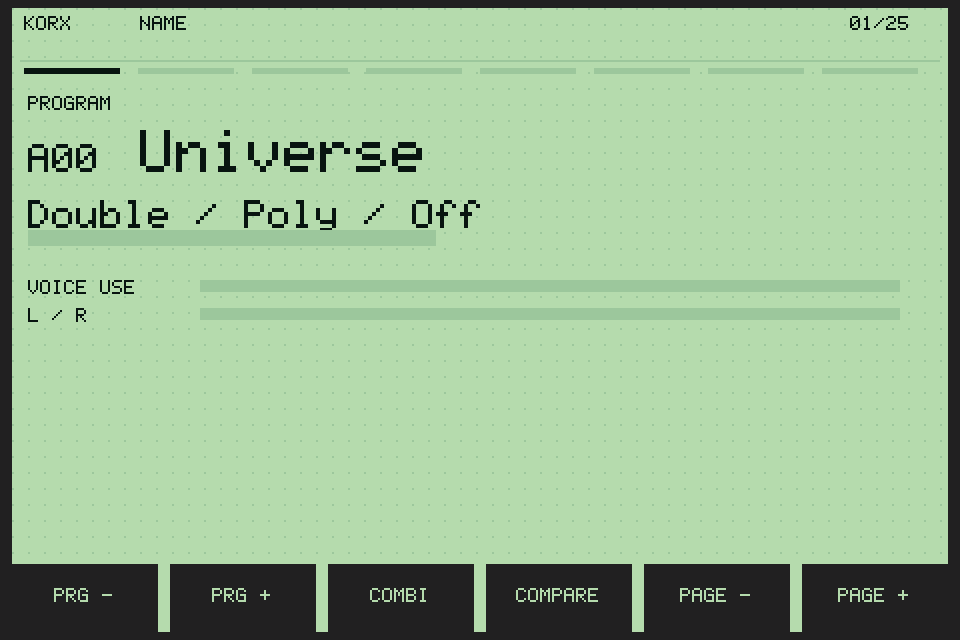
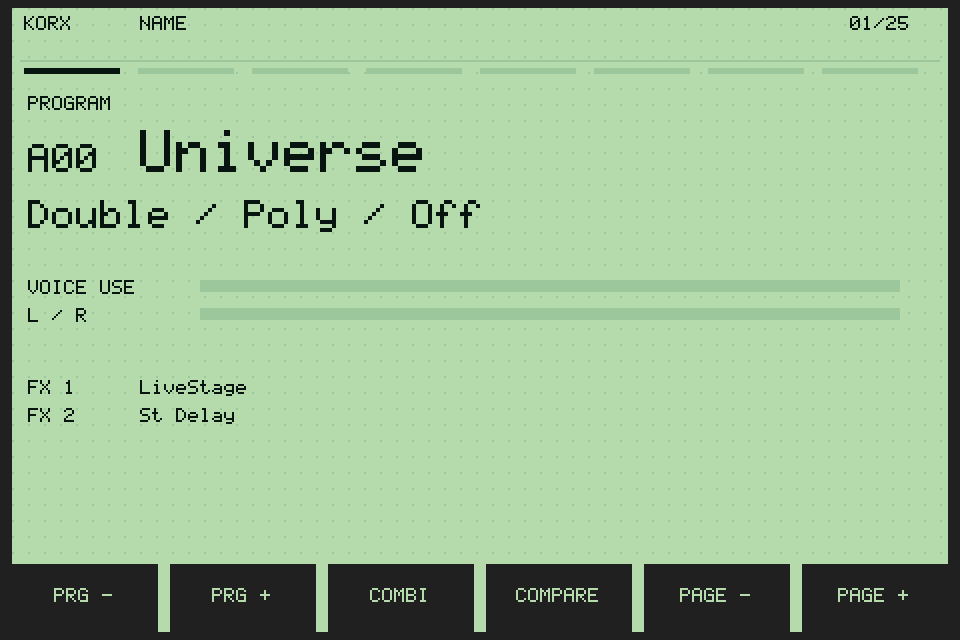
M1 UI fixes; correct spec and REA plan after independent review
UI: timbre ON/-- flag was inverted (bit set = off), removed a stray
meter that overlapped the program info line, show FX 1 / FX 2 on the
program screen.

Docs: fix the self-contradictory voice-stealing acceptance test, retag
the filter oversampling as ASSUMED, separate the PicoFace output stage
from M1 behaviour, list what the spec still leaves under-specified, drop
the 'provably owes nothing' claim, and add isolation / supply-chain /
ROM-custody / evidence / Lane-B / legal controls to the REA plan.

Changed region(s): [[0.0312, 0.3438, 0.4688, 0.4062], [0.1562, 0.5938, 0.25, 0.6562], [0.0312, 0.5938, 0.0625, 0.6562]]

diff --git a/src/ui_m1/m1ui_view.h b/src/ui_m1/m1ui_view.h
@@ -157,7 +157,8 @@ inline void params(const Model&m,bool env,bool filter){for(int i=0;i<4;++i){cons
     else if(filter){rect(10,205,460,65,GRID);rect(12,207,456,61,BG);for(int i=0;i<16;++i){int x=16+i*29;int z=pnorm(slotParam(m,0),m)*(i+1)/32;line(x,263,x,263-z,INK);line(x+1,263,x+1,263-z,INK);}}
 }
 inline void play(const Model&m,const Meters&mt){char n[11],num[8];getName(m,n);int cur=m.mode?m.combi:m.program;snprintf(num,sizeof(num),"A%02d",cur);text(14,48,m.mode?"COMBINATION":"PROGRAM",INK);text(14,72,num,INK,2);text(70,65,n,INK,3);if(m.edited)text(430,74,"*",INK,2);if(m.comparing)text(400,50,"CMP",INK);
-    if(!m.mode){char value[16],summary[52];summary[0]=0;for(int i=0;i<3;++i){int idx=(m.nGroups>1?m.groupFirst[1]:0)+i;if(idx<m.nParams){m1::paramFormat(m.params[idx],block(m),value,sizeof(value),nullptr);if(i)strcat(summary," / ");strcat(summary,value);}}int sc=tWidth(summary,2)>430?1:2;text(14,100,summary,INK,sc);rect(14,115,204,8,GRID);rect(14,115,mt.voices*204/16,8,INK);text(14,140,"VOICE USE",INK);rect(100,140,350,6,GRID);rect(100,140,mt.voices*350/16,6,INK);text(14,154,"L / R",INK);rect(100,154,350,6,GRID);rect(100,154,meter100(mt.l)*350/100,6,INK);rect(100,164,meter100(mt.r)*350/100,6,INK);}
+    if(!m.mode){char value[16],summary[52];summary[0]=0;for(int i=0;i<3;++i){int idx=(m.nGroups>1?m.groupFirst[1]:0)+i;if(idx<m.nParams){m1::paramFormat(m.params[idx],block(m),value,sizeof(value),nullptr);if(i)strcat(summary," / ");strcat(summary,value);}}int sc=tWidth(summary,2)>430?1:2;text(14,100,summary,INK,sc);
+text(14,140,"VOICE USE",INK);rect(100,140,350,6,GRID);rect(100,140,mt.voices*350/16,6,INK);text(14,154,"L / R",INK);rect(100,154,350,6,GRID);rect(100,154,meter100(mt.l)*350/100,6,INK);rect(100,164,meter100(mt.r)*350/100,6,INK);{const uint8_t*pb=block(m);int f1=pb[38],f2=pb[39];text(14,190,"FX 1",INK);text(70,190,m1::kFxNames[f1<34?f1:33],INK);text(14,204,"FX 2",INK);text(70,204,m1::kFxNames[f2<34?f2:33],INK);}}
     else for(int i=0;i<8;++i){int y=102+i*18,pn=combiTimbreProgram(m,i),lv=combiTimbreLevel(m,i);char t[16],nm[11];snprintf(t,sizeof(t),"%c %02d",'A'+i,pn);programName(m,pn,nm);text(14,y,t,INK);text(62,y,nm,INK);rect(190,y+1,200,5,GRID);rect(190,y+1,lv*200/99,5,INK);text(405,y,combiTimbreOn(m,i)?"ON":"--",INK);}
 }
 inline bool fontTestMode=false;

diff --git a/src/ui_m1/m1ui_extras.h b/src/ui_m1/m1ui_extras.h
@@ -23,7 +23,7 @@ inline int combiTimbreLevel(const Model& m, int timbre) {
 
 inline bool combiTimbreOn(const Model& m, int timbre) {
     const uint8_t* t = combiTimbre(m, timbre);
-    return t ? ((t[10] & 0x10) != 0) : false; // block offset 46, bit 4
+    return t ? ((t[10] & 0x10) == 0) : false; // block offset 46, bit 4: bit set = timbre OFF (same convention as m1_params Toggle)
 }
 
 inline const char* programName(const Model& m, int program, char out[11]) {

diff --git a/docs/CLEAN_ROOM_SPEC.md b/docs/CLEAN_ROOM_SPEC.md
@@ -1,6 +1,6 @@
 # Korg M1 engine: behaviour specification (draft v0.1)
 
-**Purpose.** Describe *what an M1-style synth engine does*, precisely enough that someone who has never seen Korg's code or ROMs can implement it in Rust or C, and then check it against measurements. It contains behaviour, formulas and structure only: **no ROM addresses, no table contents, no sample data, no code.**
+**Purpose.** Describe *what an M1-style synth engine does*, with the aim that someone who has never seen Korg's code or ROMs can implement it in Rust or C and then check it against measurements. **Status: an incomplete draft.** It is not yet precise enough to implement from alone; §15.1 lists what is still missing. It contains behaviour, formulas and structure only: **no ROM addresses, no table contents, no sample data, no code.**
 
 **Education only.** Written to learn how a classic sample-based (ROMpler) synthesiser is built. Nothing here distributes Korg's data.
 
@@ -72,7 +72,7 @@ step(4.12) = S[d >> 7] + (S[d >> 7] * F[d & 127] >> 16)
   * *Stage type B:* bilinear one-pole with a zero at Nyquist, DC gain 1: `y = −T·y₁ + (1+T)/2·(x + x₁)` with `T = 2k − 1`.
   * Each of two filter units contains one A and one B stage; unit 1 scales `k` by 0.707.
   * `k` as a function of the cutoff register is a **12-bit lookup**: **[MEASURE]** (§14.3). A one-pole with `k = 1 − exp(−2π·fc/fs)` and a monotone register→`fc` mapping measured from the real filter is the right way to rebuild it.
-* **Oversampling [MEAS]:** the filter runs at **twice the output rate**: every output sample passes the four stages twice with the input held. This doubles all corner frequencies relative to evaluating `k` at 31.25 kHz. Best fit to recordings, not a hardware measurement.
+* **Oversampling [ASSUMED]:** the filter runs at **twice the output rate**: every output sample passes the four stages twice with the input held. This doubles all corner frequencies relative to evaluating `k` at 31.25 kHz. It is the best fit to two recordings (which carry hall, chorus and MP3 coding), **not** a measurement of the hardware, and nothing here distinguishes it from other fits (see §14.3 and §15).
 
 ## 6. Amplitude (VDA) and velocity
 
@@ -136,7 +136,7 @@ Two effect units (effect 1, effect 2), fed by output buses A/B and C/D. In **par
 
 ## 13. Output
 
-Engine output is a float or Q15 stereo sum. The PicoFace hardware multiplies by `master × 2` and **soft-clips** above 0.9 (a smooth knee that never exceeds 1.0); "one voice peaks about −12 dBFS" and 16 voices sum well below full scale. Any implementation needs equivalent headroom and a limiter. **[OS]**/engineering.
+Engine output is a float or Q15 stereo sum. **This section describes the PicoFaceM1 port's output stage, not behaviour of the M1 itself.** The port multiplies by `master × 2` and soft-clips above 0.9 (a smooth knee that never exceeds 1.0), and its authors note that one voice peaks around −12 dBFS and 16 voices sum below full scale. Any implementation needs equivalent headroom and a limiter; the exact curve is a design choice. **[ASSUMED]**
 
 ## 14. What to MEASURE (replaces trusting the original's tables)
 
@@ -164,11 +164,24 @@ For each, the method works on a real M1 **or** on any reference implementation y
 5. Only two MP3 recordings (with hall, chorus and unknown velocity) exist as ground truth. Agreement between the earlier Python reference and the engine checks the *port*, not the *analysis*.
 6. Symphonic Ensemble and Rotary depth parameters.
 
+### 15.1 Under-specified in this draft (found by independent review, 2026-11-07)
+
+This draft is **not yet implementable from alone**; the following must be defined (by measurement or by the analyst lane) before it can be called a specification:
+
+* **Units, ranges, rounding and boundaries** for the pitch formula (valid indices for negative or out-of-range `d`; quantisation of `F`), the cutoff sum (scale and sign of keyboard tracking, MG, joystick/aftertouch, EG intensity) and `n_e` folding at the ends of the keyboard.
+* **Filter state and ordering:** per-stage state, the exact input/hold/update order of the two passes, and the stage coefficients.
+* **Amplitude:** which terms add and which multiply, their scales, and where clipping and pan gains apply; "full scale 0x1FFF" is not an operational definition.
+* **Envelopes:** phase initialisation, segment transitions (break, sustain, release), zero-time behaviour, parameter ranges, and exact keyboard/velocity polarity arithmetic. "Ends at −48 dB" lacks the stopping condition.
+* **Loops:** the source index of every tap when the 8-tap window straddles `loop_start` or `end`, and equality and out-of-range cases for one-shots.
+* **Effects:** per-type routing, parameter ranges, coefficients and state initialisation; §16's ±1 sample / ±1 dB effect test cannot be run without them.
+* **Provenance:** several statements in §§3-9 carry no tag; tags should be added to every normative sentence.
+* **Reference implementations** can only validate a *port*, never the M1; real-M1 measurements (§14) are required for any claim of fidelity.
+
 ## 16. Acceptance tests (implementation-independent)
 
 * **Pitch:** every note within ±1 cent of 12-TET after the global scale offset.
 * **Envelope:** each EG segment's duration matches the measured curve within 5 %.
 * **Filter:** −3 dB frequency within ±5 % of the measured `fc` at 16 register points; slope 24 ± 3 dB/octave.
-* **Voices:** with 17 notes held on a Single program the oldest *releasing* voice is stolen first; a Double program holds 8 notes.
+* **Voices:** on a Single program, hold 16 notes, release the two oldest, then play two more: the new notes take the released channels (oldest-released first). With all 16 held and none released, the 17th note takes the oldest *held* channel. A Double program holds 8 notes. (A damper-held channel counts as releasing.)
 * **Output:** no sample above ±1.0 for any 16-voice full-velocity chord.
 * **Effects:** impulse response of each type matches the measured delay taps within ±1 sample and decay within ±1 dB.

diff --git a/docs/REA_PLAN.md b/docs/REA_PLAN.md
@@ -18,7 +18,7 @@
 
 ## 2. The two-lane clean-room process
 
-The aim is an implementation that provably owes nothing to Korg's code.
+The aim is an implementation whose dependence on Korg's code is **minimised and documented**. A two-lane process reduces contamination but **cannot prove** independent creation, especially because the analyst lane works from copyrighted firmware and the spec already contains prior source-informed analysis.
 
 ```
  Lane A: ANALYST                           Lane B: IMPLEMENTER
@@ -36,7 +36,7 @@ The aim is an implementation that provably owes nothing to Korg's code.
 
 ## 3. Setup, carefully
 
-1. **Provenance.** The README itself warns that lookalike repositories exist. Use only `github.com/morluto/rea`, `rea.tools` or the `rea-agents` npm package; check the publisher and download counts before running anything.
+1. **Provenance.** The README itself warns that lookalike repositories exist. Use only `github.com/morluto/rea`, `rea.tools` or the `rea-agents` npm package. Publisher and download counts are *not* evidence of safety: **pin an exact version, record and verify its integrity hash, and read what the package does** (install scripts, network access, what it registers) before running it.
 2. **Where.** Not on the shared AI box and not in this project's working directory. Use a throwaway VM or a separate user account. The ROM files are copyrighted, so keep them off any machine you do not control.
 3. **`npx rea-agents setup`** registers an MCP server and workflow instructions in your agent's configuration (with backups) and can optionally install Hopper after approval. Read the proposed changes before approving. Run it from a trusted directory outside the target project.
 4. **Disassembler.** Ghidra is free and has a 16-bit x86 real-mode processor module; REA can use an existing install. A large download on the shared box needs asking first.
@@ -62,3 +62,16 @@ Each yields a sentence for the spec **with evidence**, or an explicit "could not
 * **Real-mode x86 is awkward** (segments, overlapping tables, self-modifying patterns). Expect manual guidance.
 * **The contamination boundary is the whole point.** If the same agent session sees disassembly and then writes the engine, the result is a derivative work, not clean-room.
 * **Supply chain.** An MCP server with filesystem and process access deserves the same care as any package you run.
+
+## 6. Controls and gaps added after an independent review (2026-11-07)
+
+An independent review found the plan above too thin on controls. Before any ROM analysis is attempted:
+
+1. **Isolation:** a throwaway VM or separate account on a machine that does not hold other people's work; least-privilege user; an allowlist of readable folders and runnable processes; no access to unrelated projects, credentials or `.env` files; a snapshot to roll back to.
+2. **Supply chain:** pinned REA version with a recorded hash; review the package; network egress restricted to what the disassembler and REA need; no auto-update.
+3. **ROM custody:** record how each image was lawfully obtained; hash it; keep it read-only; keep it out of backups, logs, transcripts and any model context except Lane A's; delete work copies when finished.
+4. **Evidence format and redaction:** each Lane A finding is a short record (question, behavioural conclusion, confidence, how to re-verify by measurement) with **no addresses, code, tables or disassembly**. A reviewer signs each record before it enters the spec.
+5. **Lane B isolation, enforced:** a fresh session with no tool or file access except the spec; no ROM-derived files; its prompts and outputs logged; any question it asks goes through the reviewer. Prompt-injection is possible, so treat the spec as untrusted input.
+6. **Deliverables and stop criteria:** Lane A has a written question list, a time budget, and a defined "could not determine" outcome; it stops when the list is done, not when it runs out of ideas.
+7. **Measurements REA cannot do:** the silicon behaviour (filter chips, tone generator, effects DSP internals) needs its own plan from spec §14, with its own equipment and owner.
+8. **Legal gate:** a go/no-go decision, from someone qualified, on analysing the firmware, retaining notes, and publishing the resulting spec, before Lane A starts.

diff --git a/docs/UI_M1_REPORT.md b/docs/UI_M1_REPORT.md
@@ -24,3 +24,10 @@
 ## Not verified
 
 Human visual inspection is not available in this environment, so final subjective spacing/clipping review remains outstanding. No unrelated processes or local models were run.
+
+## Follow-up fixes (2026-11-07, qwen patch, verified by rendering)
+
+- Timbre ON/-- flag was inverted: bit 4 of the timbre byte set means **off** (m1_params `Toggle` convention). Fixed.
+- A stray voice-meter rectangle overlapped the program info line. Removed.
+- Program screen now shows the two effect names (FX 1 / FX 2) from the program block.
+- Still open: unused timbres (E-H) draw full-width level bars; EG graph stroke is thin; not yet measured on the FM-1.
